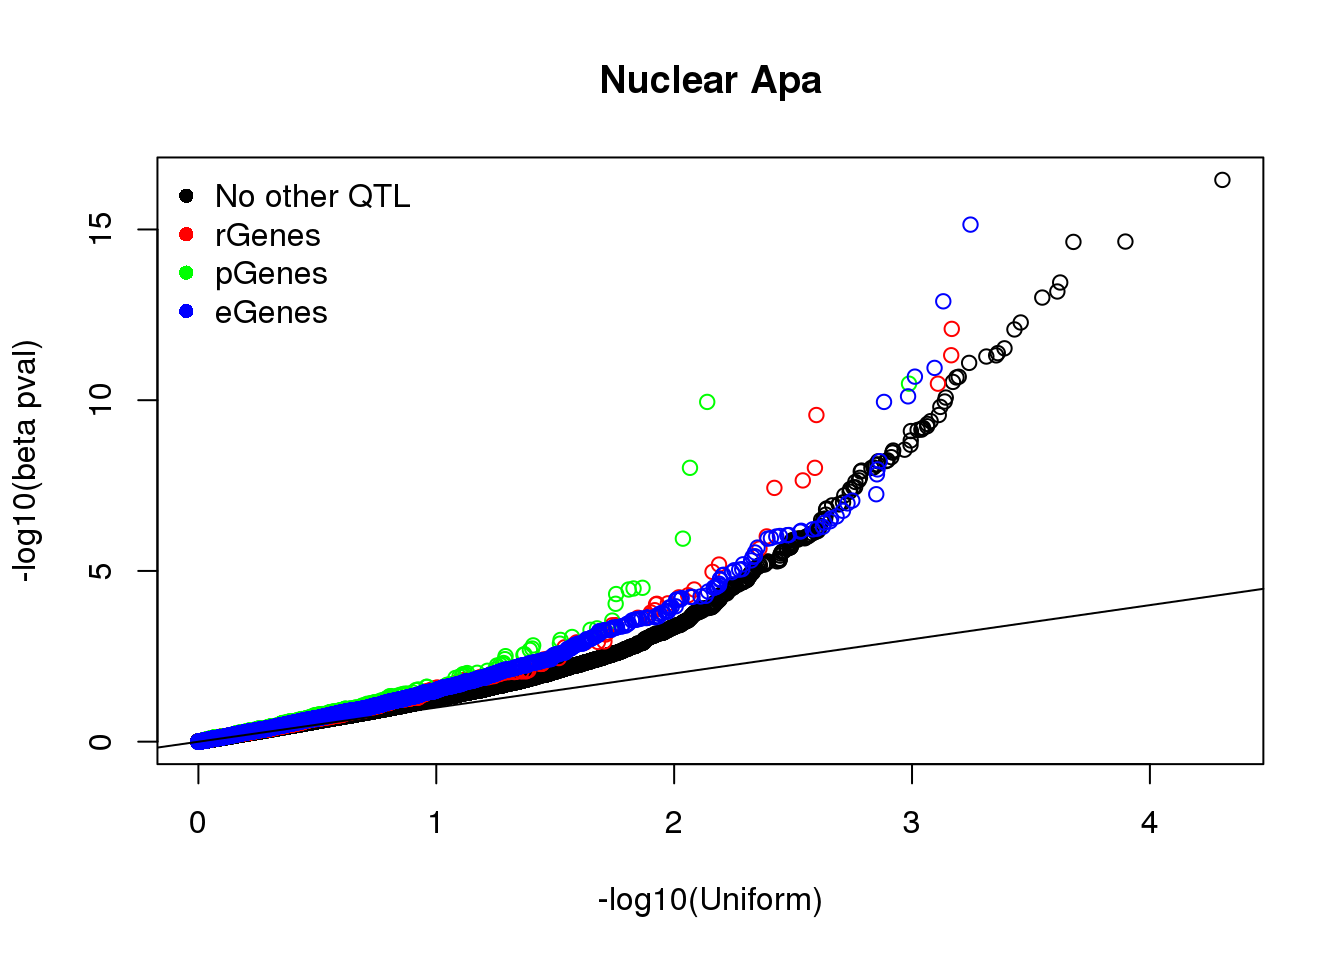
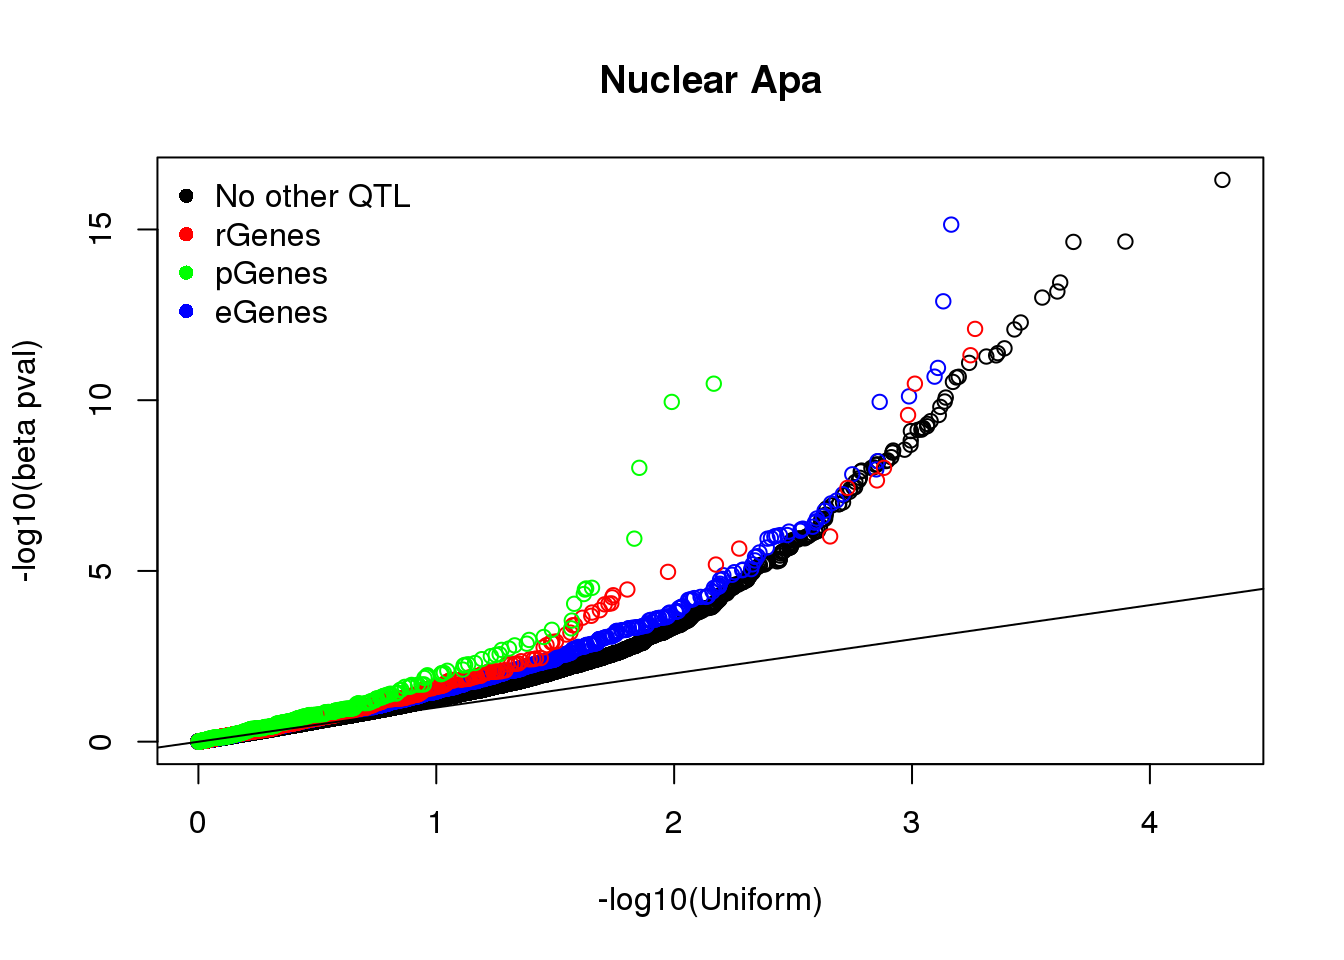
Build site.

diff --git a/docs/riboQQplot.html b/docs/riboQQplot.html
@@ -434,10 +434,10 @@ This reproducible <a href="http://rmarkdown.rstudio.com">R Markdown</a> analysis
 <div class="panel panel-default">
 <div class="panel-heading">
 <p class="panel-title">
-<a data-toggle="collapse" data-parent="#workflowr-checks" href="#strongRepositoryversionstrongahrefhttpsgithubcombrimittlemanapaQTLtree296944949cce911fb5a319fda5ca379e716c653btargetblank2969449a"> <span class="glyphicon glyphicon-ok text-success" aria-hidden="true"></span> <strong>Repository version:</strong> <a href="https://github.com/brimittleman/apaQTL/tree/296944949cce911fb5a319fda5ca379e716c653b" target="_blank">2969449</a> </a>
+<a data-toggle="collapse" data-parent="#workflowr-checks" href="#strongRepositoryversionstrongahrefhttpsgithubcombrimittlemanapaQTLtreee5dbb2fc0e30090ab10291f08bd4f16cf3fe1a86targetblanke5dbb2fa"> <span class="glyphicon glyphicon-ok text-success" aria-hidden="true"></span> <strong>Repository version:</strong> <a href="https://github.com/brimittleman/apaQTL/tree/e5dbb2fc0e30090ab10291f08bd4f16cf3fe1a86" target="_blank">e5dbb2f</a> </a>
 </p>
 </div>
[2 lines of base64/hex data omitted]
 <div class="panel-body">
 <p>
 Great! You are using Git for version control. Tracking code development and connecting the code version to the results is critical for reproducibility. The version displayed above was the version of the Git repository at the time these results were generated. <br><br> Note that you need to be careful to ensure that all relevant files for the analysis have been committed to Git prior to generating the results (you can use <code>wflow_publish</code> or <code>wflow_git_commit</code>). workflowr only checks the R Markdown file, but you know if there are other scripts or data files that it depends on. Below is the status of the Git repository when the results were generated:
@@ -447,7 +447,6 @@ Ignored files:
     Ignored:    .DS_Store
     Ignored:    .Rhistory
     Ignored:    .Rproj.user/
-    Ignored:    analysis/figure/
     Ignored:    data/.DS_Store
     Ignored:    data/ProSeq/
     Ignored:    output/.DS_Store
@@ -1283,6 +1282,40 @@ Message
 Rmd
 </td>
 <td>
+<a href="https://github.com/brimittleman/apaQTL/blob/e5dbb2fc0e30090ab10291f08bd4f16cf3fe1a86/analysis/riboQQplot.Rmd" target="_blank">e5dbb2f</a>
+</td>
+<td>
+brimittleman
+</td>
+<td>
+2020-02-28
+</td>
+<td>
+add all lines in 1
+</td>
+</tr>
+<tr>
+<td>
+html
+</td>
+<td>
+<a href="https://rawcdn.githack.com/brimittleman/apaQTL/f19db642d8f0faa26cd09130de87f603d9321d3e/docs/riboQQplot.html" target="_blank">f19db64</a>
+</td>
+<td>
+brimittleman
+</td>
+<td>
+2020-02-28
+</td>
+<td>
+Build site.
+</td>
+</tr>
+<tr>
+<td>
+Rmd
+</td>
+<td>
 <a href="https://github.com/brimittleman/apaQTL/blob/296944949cce911fb5a319fda5ca379e716c653b/analysis/riboQQplot.Rmd" target="_blank">2969449</a>
 </td>
 <td>
@@ -1372,12 +1405,12 @@ add riboqq and PM coloc
 </div>
 <p>In the paper I have qqPlots where I took the apaQTL data and subset it by QTL sets. I never did this for riboQTLs. I will get the riboQTLs from Battle et al and remake the plot including these.</p>
 <pre class="r"><code>library(tidyverse)</code></pre>
-<pre><code>── Attaching packages ─────────────────────────────────────────────────────────────────────────────────────────────────────────────────────────────────────── tidyverse 1.2.1 ──</code></pre>
+<pre><code>── Attaching packages ─────────────────────────────────────────────────────────────────────────────────────────────── tidyverse 1.2.1 ──</code></pre>
 <pre><code>✔ ggplot2 3.1.1       ✔ purrr   0.3.2  
 ✔ tibble  2.1.1       ✔ dplyr   0.8.0.1
 ✔ tidyr   0.8.3       ✔ stringr 1.3.1  
 ✔ readr   1.3.1       ✔ forcats 0.3.0  </code></pre>
-<pre><code>── Conflicts ────────────────────────────────────────────────────────────────────────────────────────────────────────────────────────────────────────── tidyverse_conflicts() ──
+<pre><code>── Conflicts ────────────────────────────────────────────────────────────────────────────────────────────────── tidyverse_conflicts() ──
 ✖ dplyr::filter() masks stats::filter()
 ✖ dplyr::lag()    masks stats::lag()</code></pre>
 <pre class="r"><code>geneNames=read.table(&quot;../../genome_anotation_data/ensemble_to_genename.txt&quot;, sep=&quot;\t&quot;, col.names = c(&#39;ENSG&#39;, &#39;GeneName&#39;, &#39;source&#39; ),stringsAsFactors = F, header = T)
@@ -1565,13 +1598,50 @@ alternative hypothesis: true location shift is less than 0</code></pre>
 <pre class="r"><code>notany_nuc=read.table(&quot;../data/ApaByRgene/NotANY_nuclear.txt&quot;,stringsAsFactors = F, col.names = c(&quot;pid&quot;, &quot;nvar&quot;, &quot;shape1&quot;, &quot;shape2&quot;, &quot;dummy&quot;, &quot;sid&quot;, &quot;dist&quot;, &quot;npval&quot;, &quot;slope&quot;, &quot;ppval&quot;, &quot;bpval&quot;) )
 notany_nuc=na.omit(notany_nuc)</code></pre>
 <pre class="r"><code>qqplot(-log10(runif(nrow(notany_nuc))), -log10(notany_nuc$bpval), xlab=&quot;-log10(Uniform)&quot;, ylab=&quot;-log10(beta pval)&quot;, main=&quot;Nuclear Apa&quot;)
+points(sort(-log10(runif(nrow(nuc_allE)))), sort(-log10(nuc_allE$bpval)),col= alpha(&quot;blue&quot;))
 points(sort(-log10(runif(nrow(nuc.RS)))), sort(-log10(nuc.RS$bpval)),col= alpha(&quot;Red&quot;))
 points(sort(-log10(runif(nrow(nuc.P)))), sort(-log10(nuc.P$bpval)),col= alpha(&quot;Green&quot;))
-points(sort(-log10(runif(nrow(nuc_allE)))), sort(-log10(nuc_allE$bpval)),col= alpha(&quot;blue&quot;))
 abline(0,1)
 
 legend(&quot;topleft&quot;, legend=c(&quot;No other QTL&quot;,&quot;rGenes&quot;, &quot;pGenes&quot;,&quot;eGenes&quot;),col=c(&quot;black&quot;, &quot;red&quot;,&quot;Green&quot;,&quot;blue&quot;), pch=16,bty = &#39;n&#39;)</code></pre>
 <p><img src="figure/riboQQplot.Rmd/unnamed-chunk-12-1.png" width="672" style="display: block; margin: auto;" /></p>
+<p>
+<button type="button" class="btn btn-default btn-xs btn-workflowr btn-workflowr-fig" data-toggle="collapse" data-target="#fig-unnamed-chunk-12-1">
+Past versions of unnamed-chunk-12-1.png
+</button>
+</p>
+<div id="fig-unnamed-chunk-12-1" class="collapse">
+<div class="table-responsive">
+<table class="table table-condensed table-hover">
+<thead>
+<tr>
+<th>
+Version
+</th>
+<th>
+Author
+</th>
+<th>
+Date
+</th>
+</tr>
+</thead>
+<tbody>
+<tr>
+<td>
+<a href="https://github.com/brimittleman/apaQTL/blob/f19db642d8f0faa26cd09130de87f603d9321d3e/docs/figure/riboQQplot.Rmd/unnamed-chunk-12-1.png" target="_blank">f19db64</a>
+</td>
+<td>
+brimittleman
+</td>
+<td>
+2020-02-28
+</td>
+</tr>
+</tbody>
+</table>
+</div>
+</div>
 <br>
 <p>
 <button type="button" class="btn btn-default btn-workflowr btn-workflowr-sessioninfo" data-toggle="collapse" data-target="#workflowr-sessioninfo" style="display: block;">
